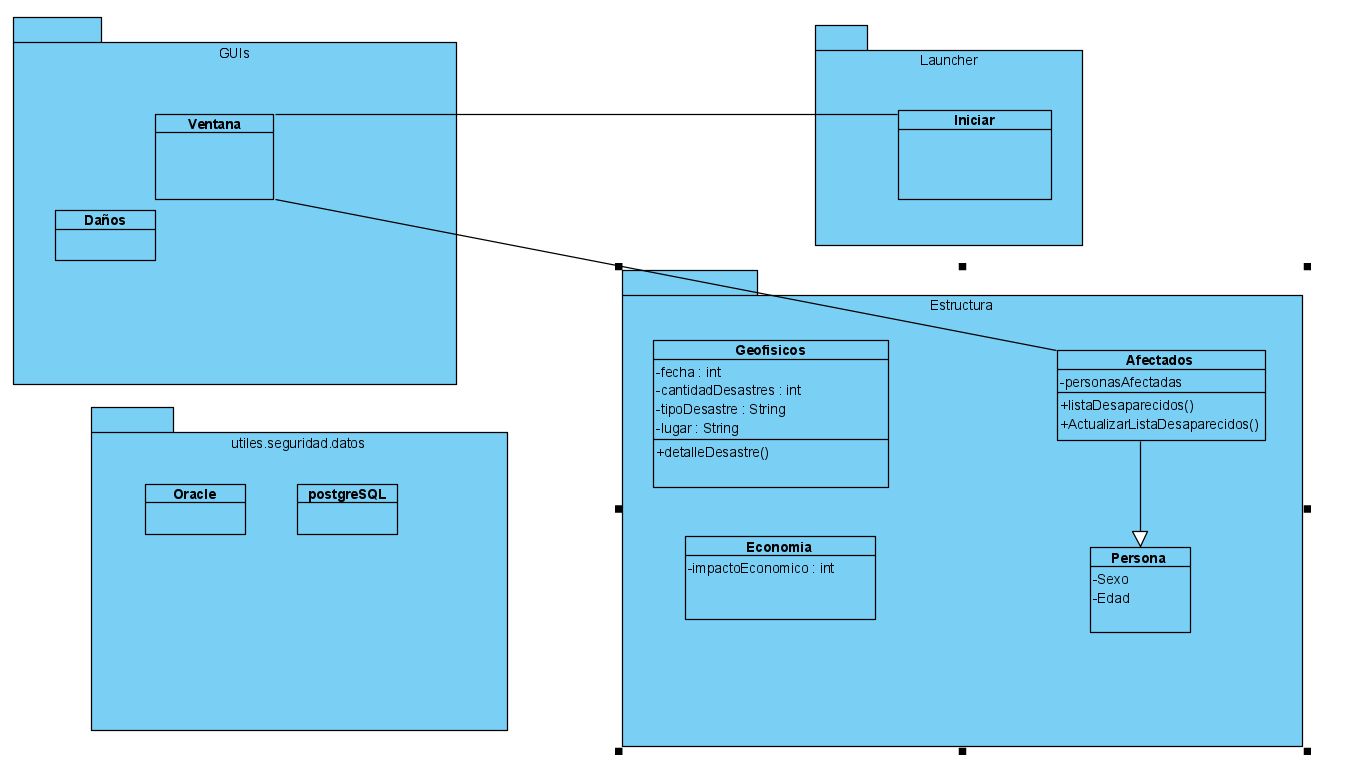
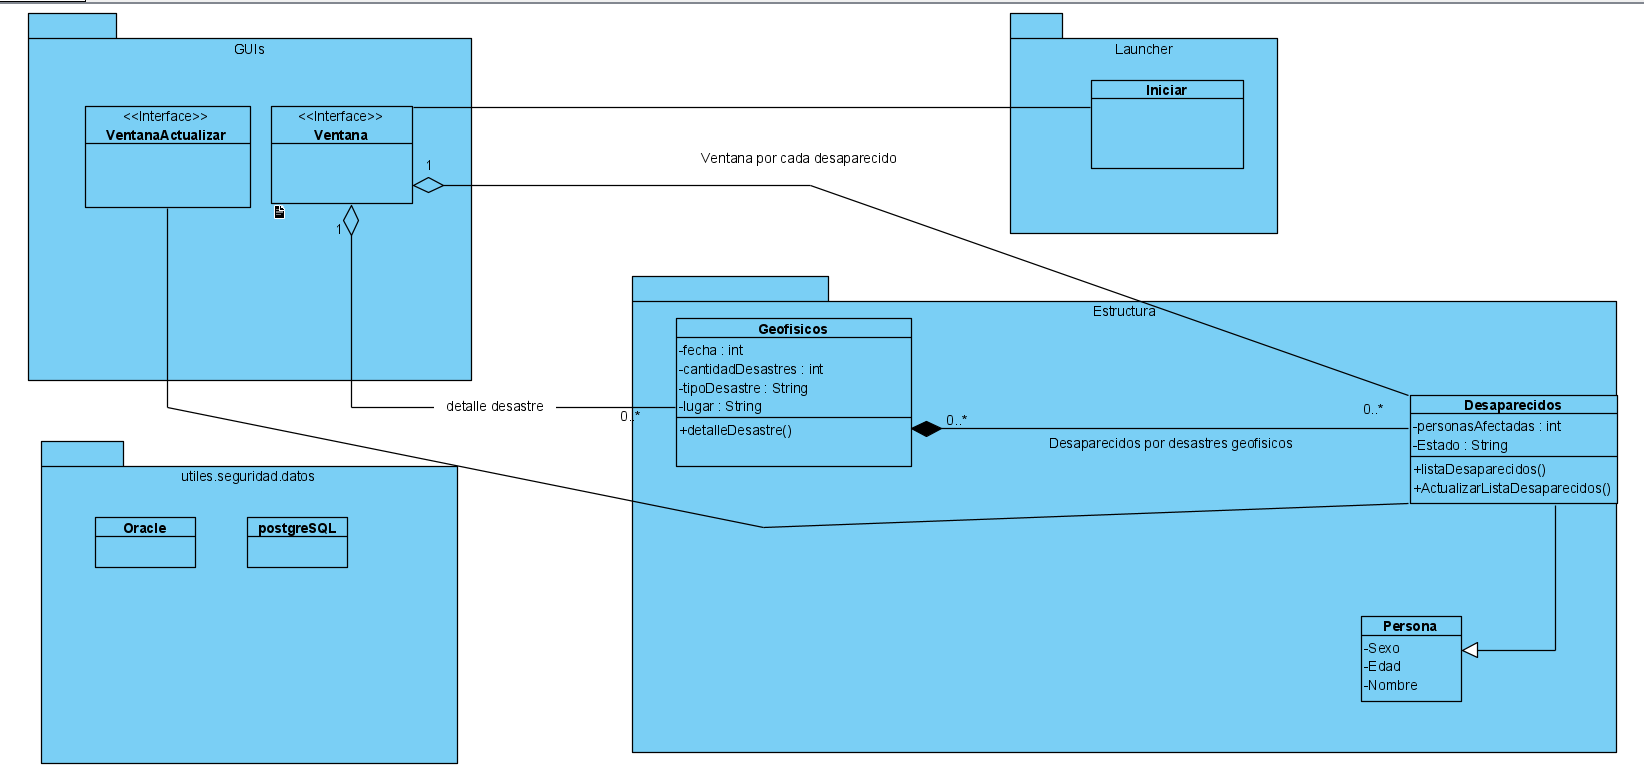
9:30 -UML actualizado. -Clase Ventana sin terminar. -Creación clase VentanaActualizar.

diff --git a/Desastres/src/main/java/GUIs/VentanaActualizar.java b/Desastres/src/main/java/GUIs/VentanaActualizar.java
@@ -1,0 +1,4 @@
+package GUIs;
+
+public class VentanaActualizar {
+}
